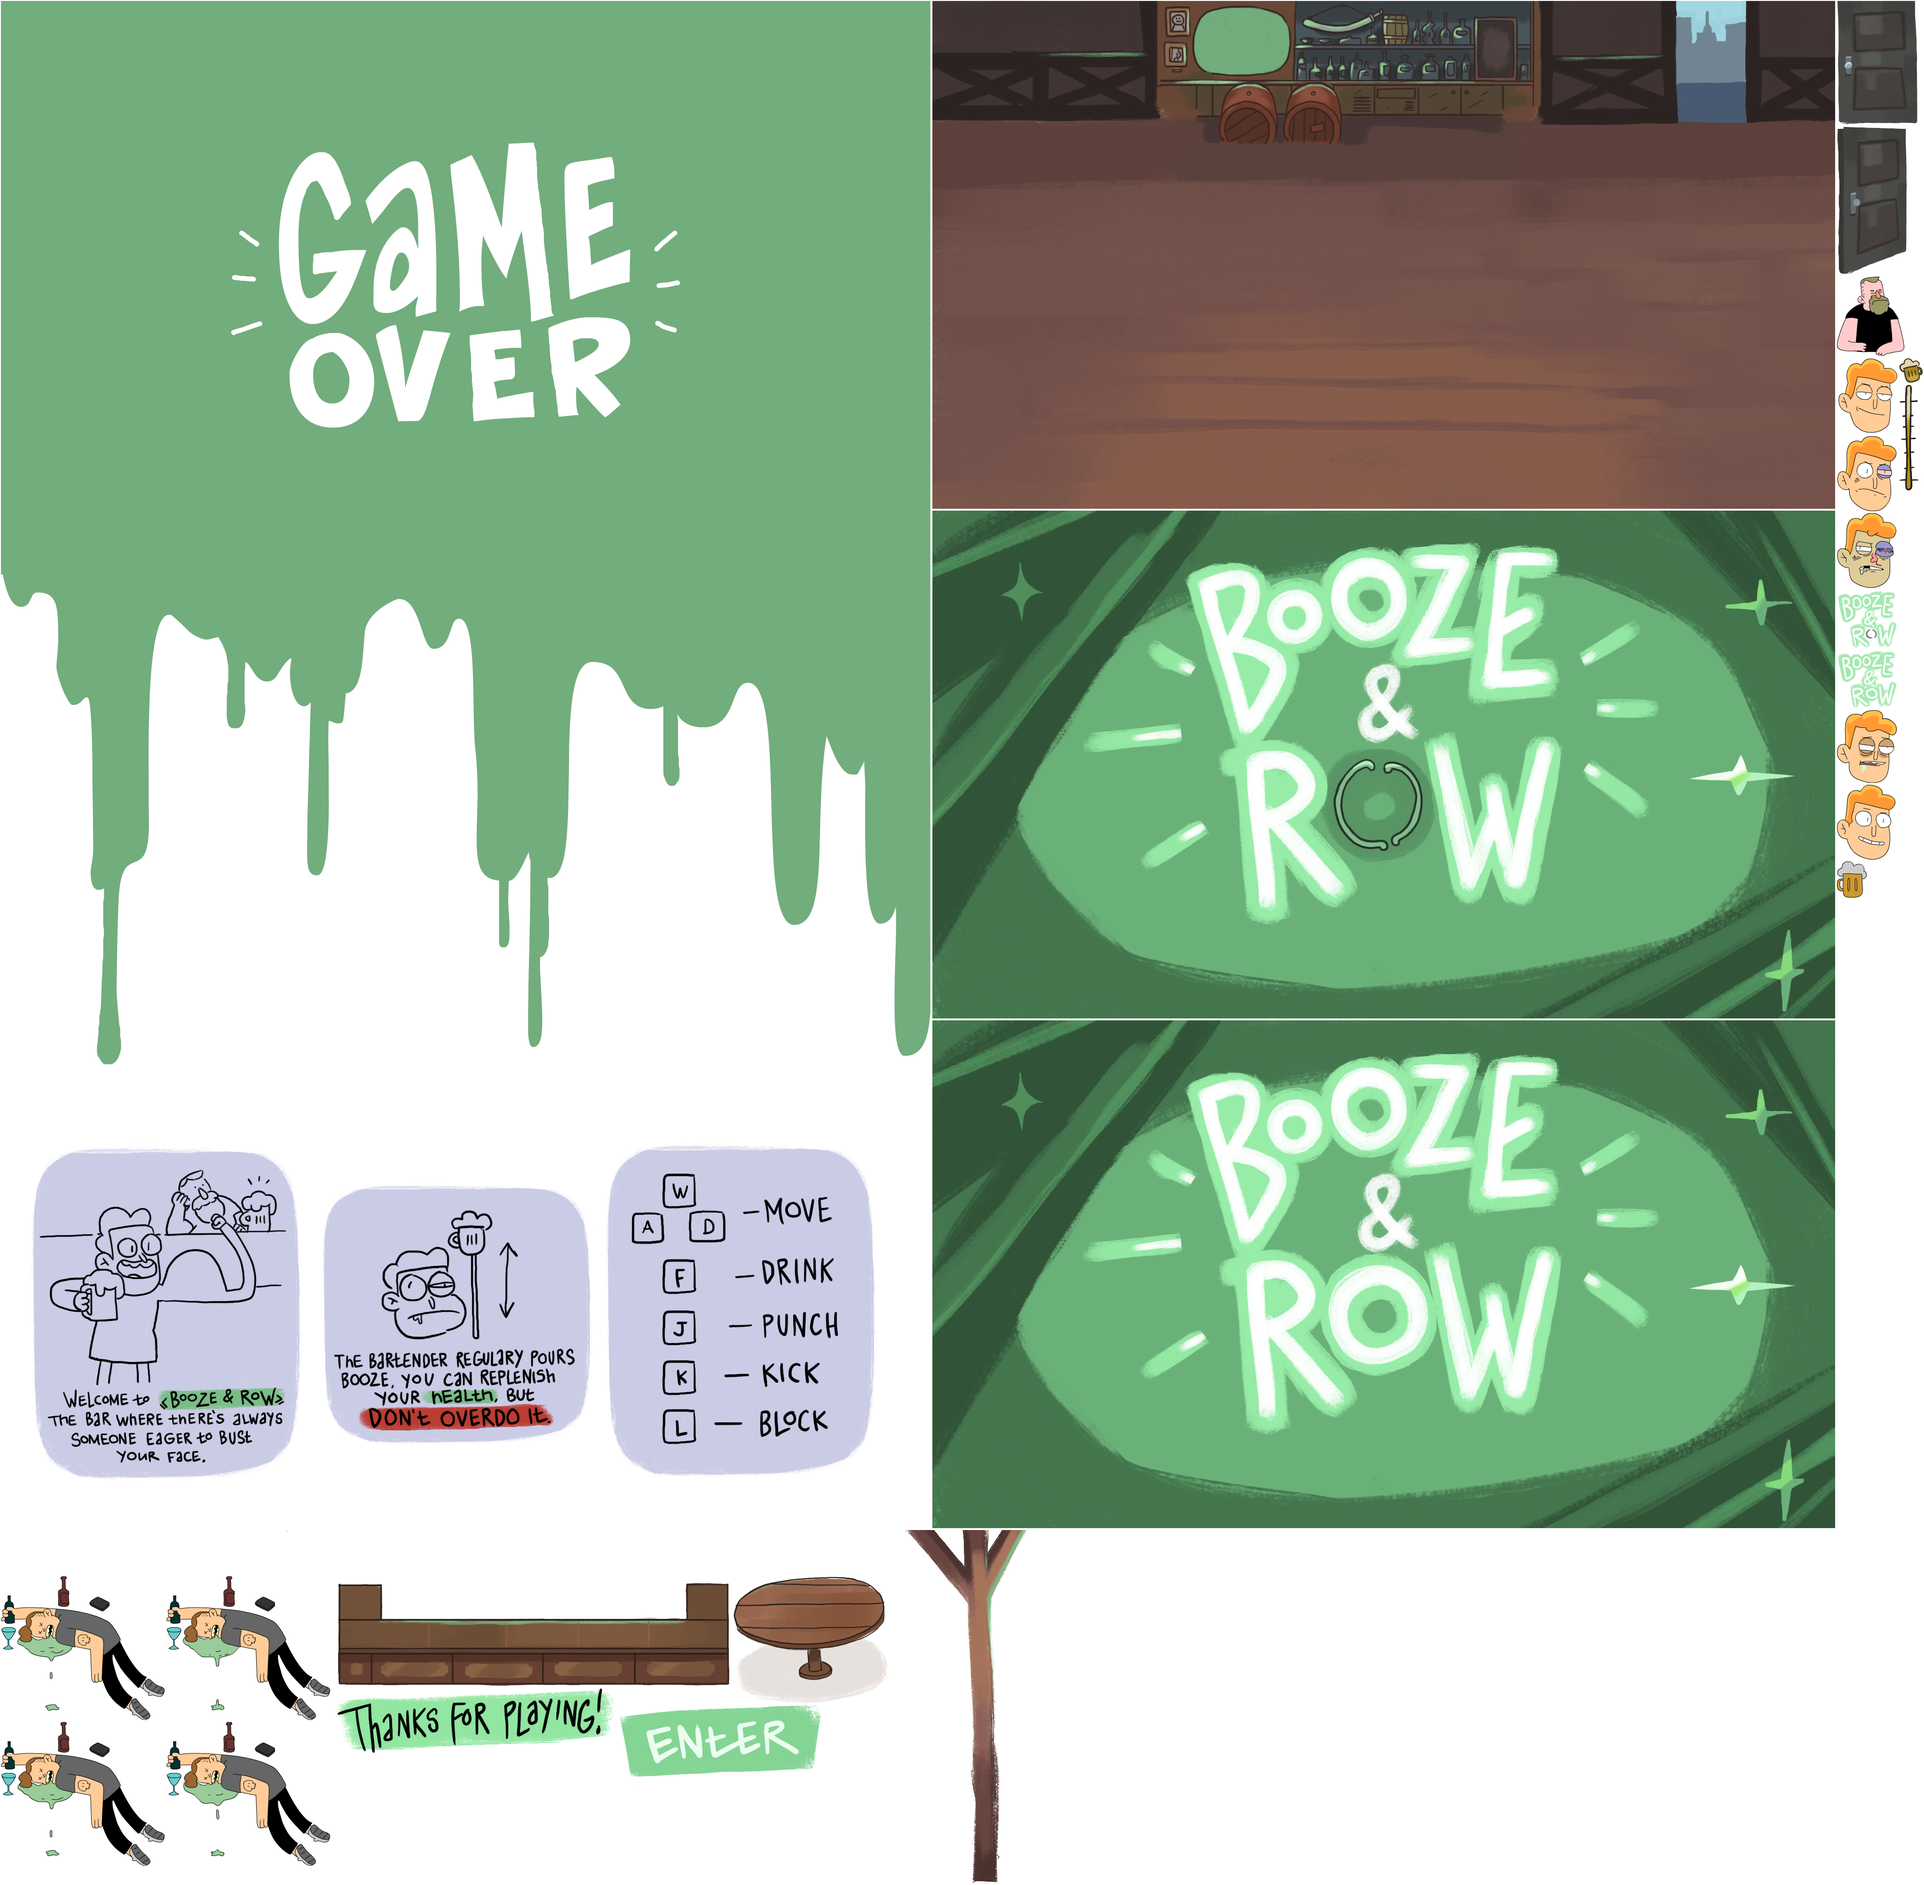
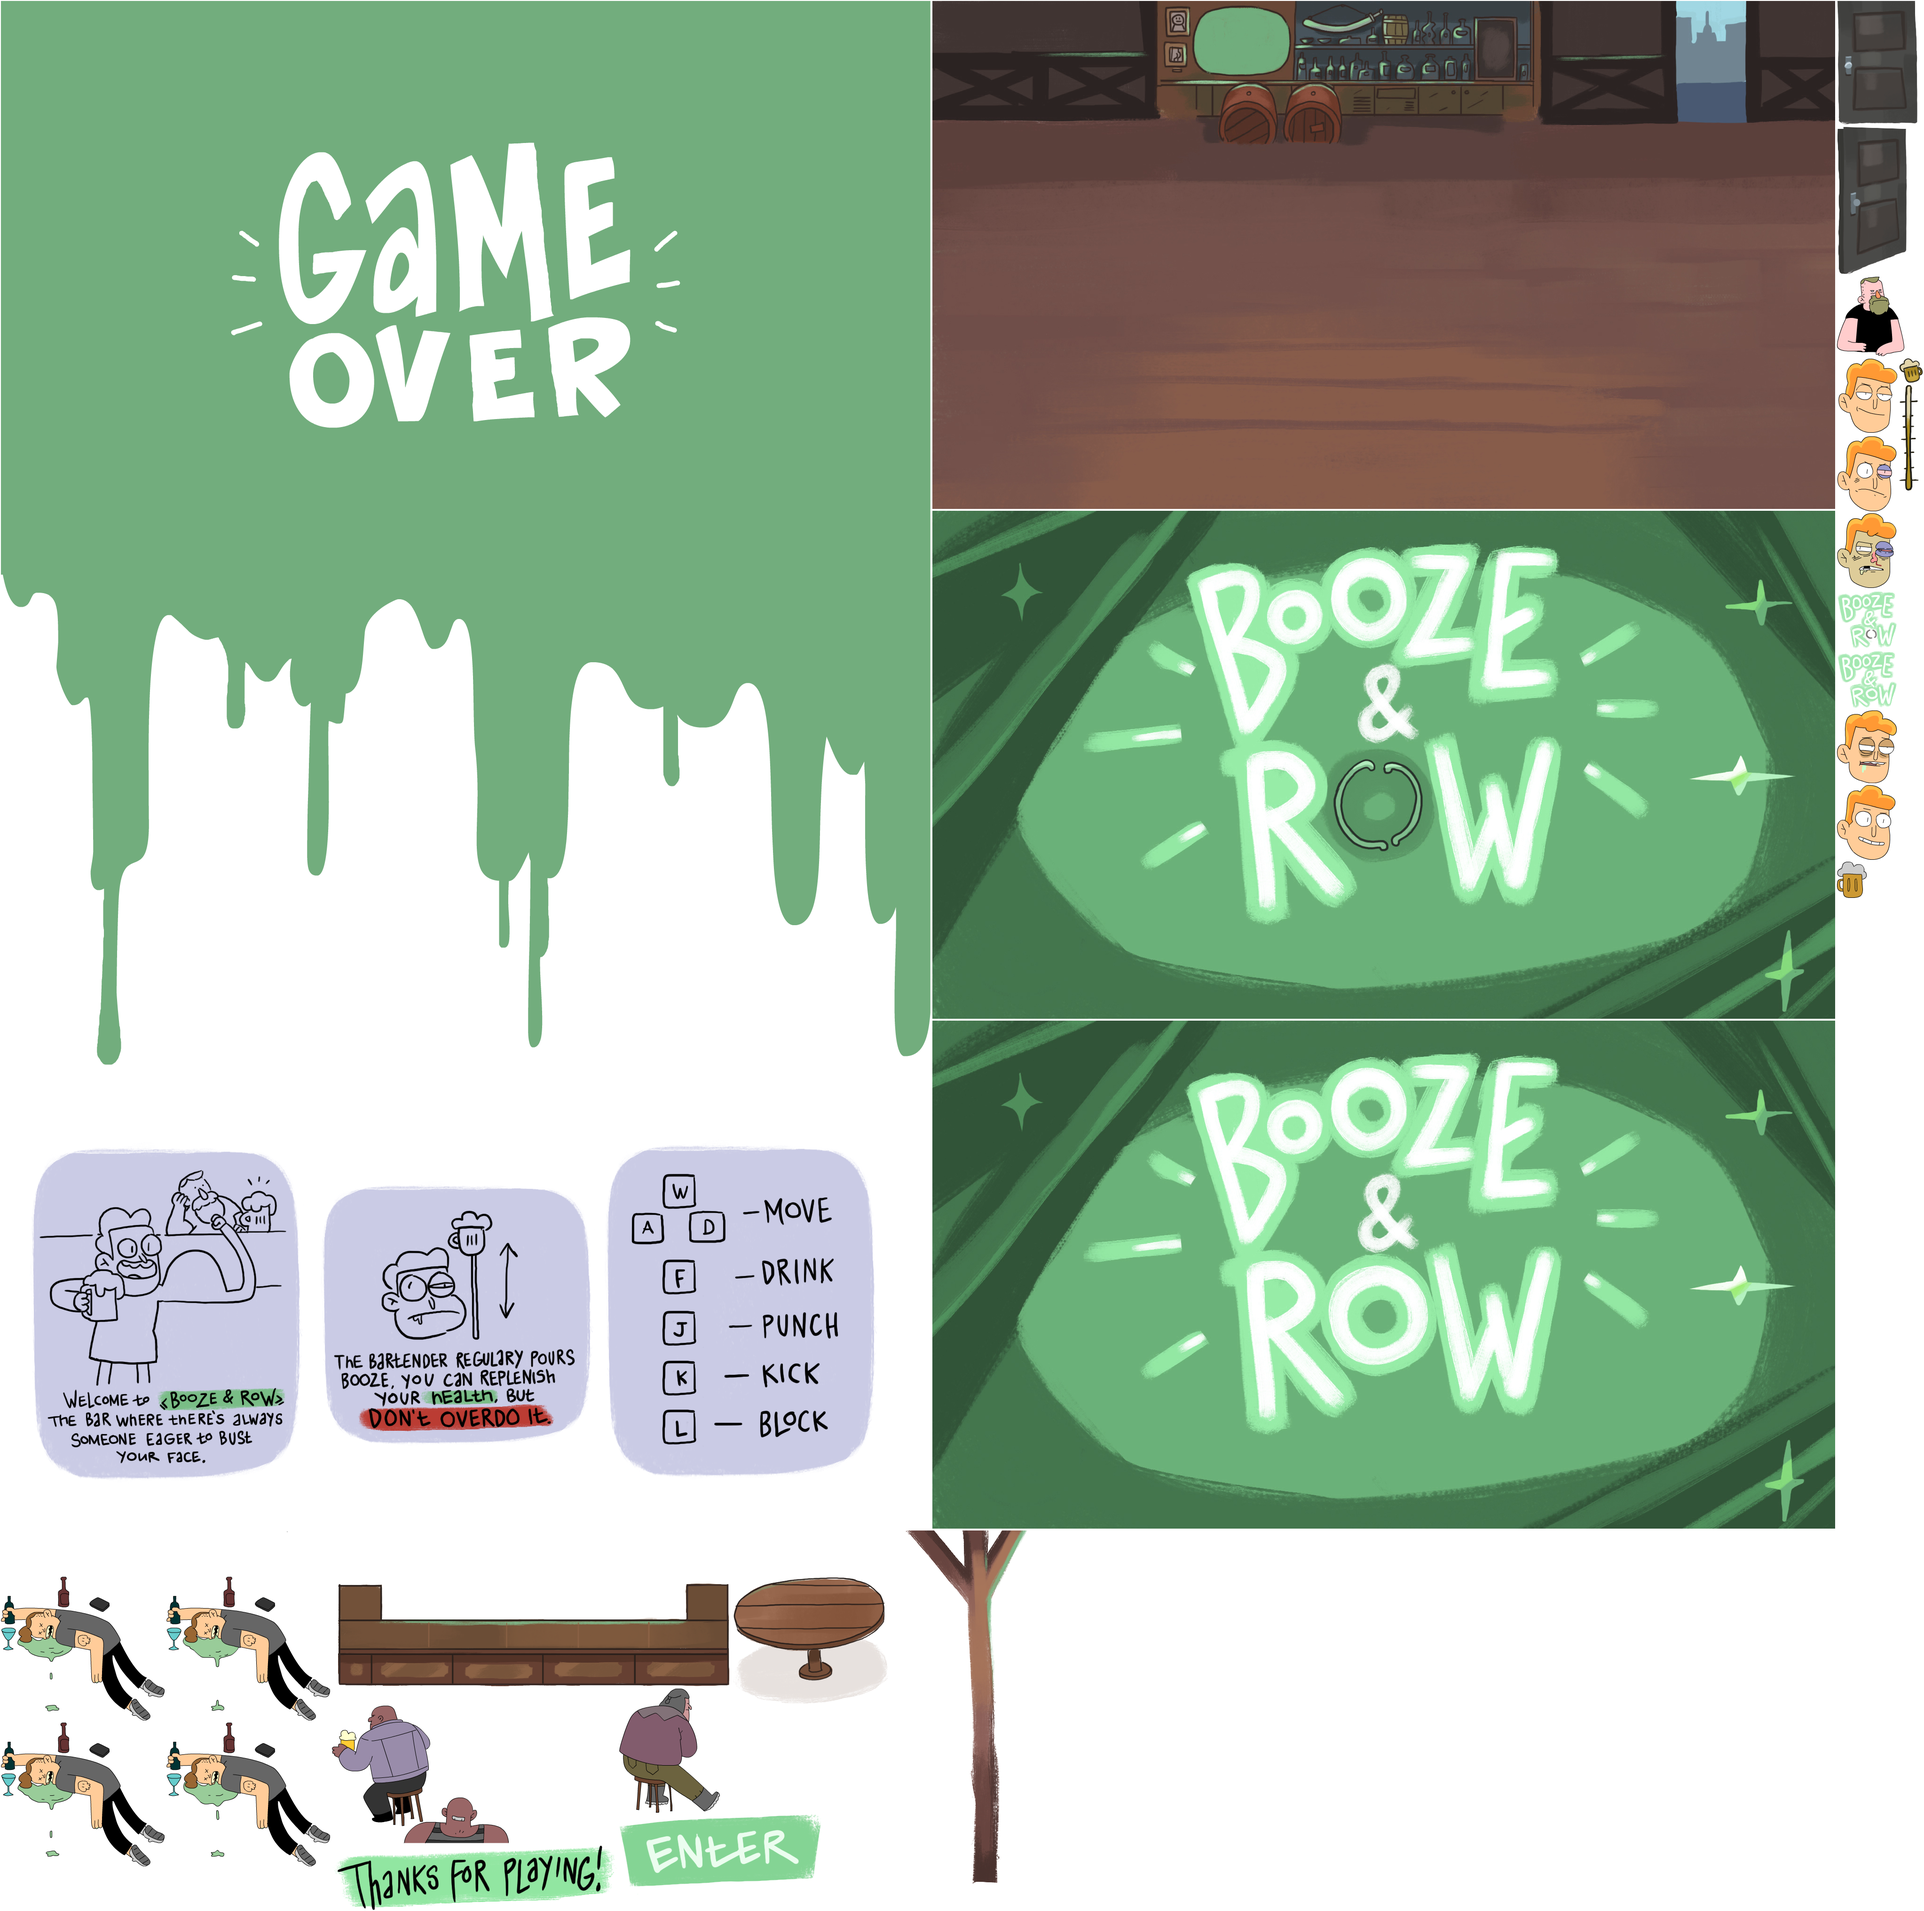
MVP

diff --git a/src/components/Table.ts b/src/components/Table.ts
@@ -1,8 +1,13 @@
-import { Actor, ActorArgs, CollisionType, Shape, Sprite, vec } from 'excalibur';
+import { Actor, ActorArgs, Animation, CollisionType, Shape, Sprite, vec } from 'excalibur';
 import res from '../res';
+import { TABLE_TYPE } from '../enums';
+import SpriteSheetAnimation from '../partials/spritesheet-animation';
 
 export default class Table extends Actor {
-	constructor(props: ActorArgs) {
+	constructor(
+		props: ActorArgs,
+		private type: TABLE_TYPE = TABLE_TYPE.MAIN,
+	) {
 		super({
 			...props,
 			width: 200,
@@ -21,5 +26,45 @@ export default class Table extends Actor {
 		this.graphics.use(<Sprite>res.assets.getFrameSprite('graphics/table'), {
 			offset: vec(-10, 0),
 		});
+
+		if (this.type === TABLE_TYPE.CUSTOMER1) {
+			const animations = new SpriteSheetAnimation([res.assets]);
+
+			const anim = <Animation>animations.getAnimation('graphics/customer');
+
+			this.graphics.layers
+				.create({
+					name: 'add',
+					order: 0,
+					offset: vec(75, 0),
+				})
+				.use(anim);
+
+			anim.play();
+		}
+
+		if (this.type === TABLE_TYPE.CUSTOMER2) {
+			const sprite = <Sprite>res.assets.getFrameSprite('graphics/customer2');
+
+			this.graphics.layers
+				.create({
+					name: 'add',
+					order: 0,
+					offset: vec(120, 10),
+				})
+				.use(sprite);
+		}
+
+		if (this.type === TABLE_TYPE.CUSTOMER3) {
+			const sprite = <Sprite>res.assets.getFrameSprite('graphics/customer3');
+
+			this.graphics.layers
+				.create({
+					name: 'add',
+					order: 0,
+					offset: vec(75, 30),
+				})
+				.use(sprite);
+		}
 	}
 }

diff --git a/src/scenes/Level.ts b/src/scenes/Level.ts
@@ -11,10 +11,9 @@ import PlayerAlcoholMeter from '../components/PlayerAlcoholMeter';
 import { random } from '../utils';
 import Beer from '../components/Beer';
 import config from '../config';
-import { ENEMY_TYPE, EVENTS } from '../enums';
+import { ENEMY_TYPE, EVENTS, TABLE_TYPE } from '../enums';
 import Door from '../components/Door';
 import Barman from '../components/Barman';
-import Customer from '../components/Customer';
 import Runner from '../components/Runner';
 import GameOver from '../components/GameOver';
 
@@ -220,15 +219,26 @@ export default class Level extends Scene {
 		for (let [index, tableConfig] of tables.entries()) {
 			const { __worldX, __worldY } = tableConfig;
 
-			let TableClass = Table;
+			let type = TABLE_TYPE.MAIN;
 
 			if (index === 0) {
-				TableClass = Customer;
+				type = TABLE_TYPE.CUSTOMER1;
 			}
 
-			const table = new TableClass({
-				pos: vec(__worldX, __worldY),
-			});
+			if (index === 1) {
+				type = TABLE_TYPE.CUSTOMER2;
+			}
+
+			if (index === 2) {
+				type = TABLE_TYPE.CUSTOMER3;
+			}
+
+			const table = new Table(
+				{
+					pos: vec(__worldX, __worldY),
+				},
+				type,
+			);
 
 			this.add(table);
 		}

diff --git a/src/enums.ts b/src/enums.ts
@@ -40,3 +40,10 @@ export enum ENEMY_TYPE {
 	ENEMY1 = 'enemy1',
 	ENEMY3 = 'enemy3',
 }
+
+export enum TABLE_TYPE {
+	MAIN,
+	CUSTOMER1,
+	CUSTOMER2,
+	CUSTOMER3,
+}
